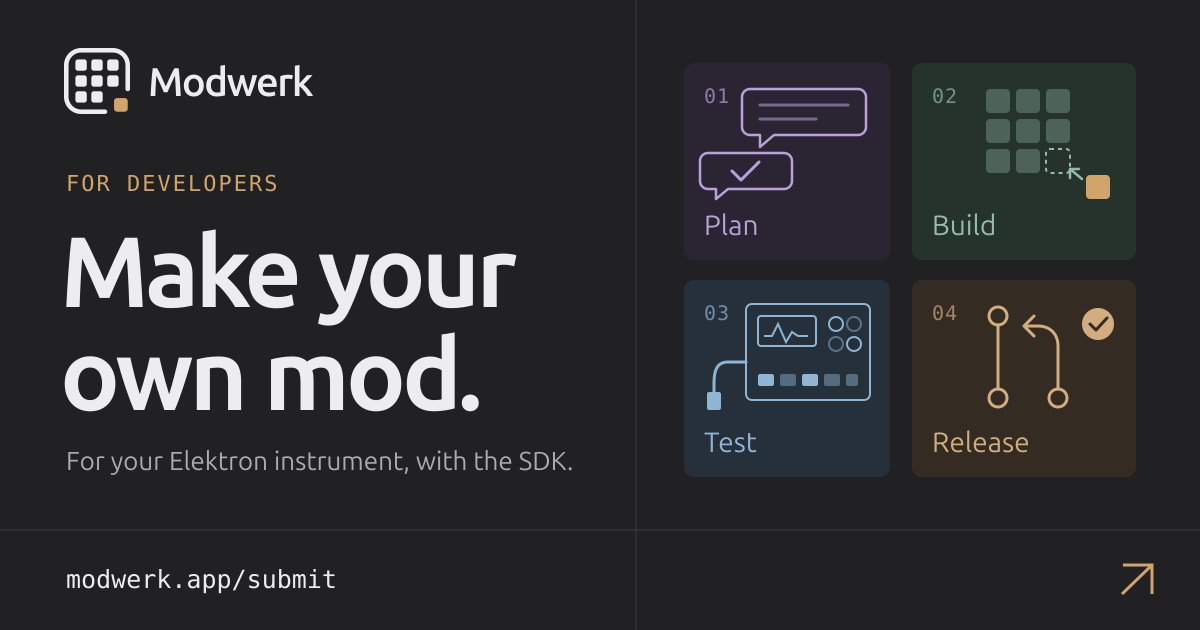
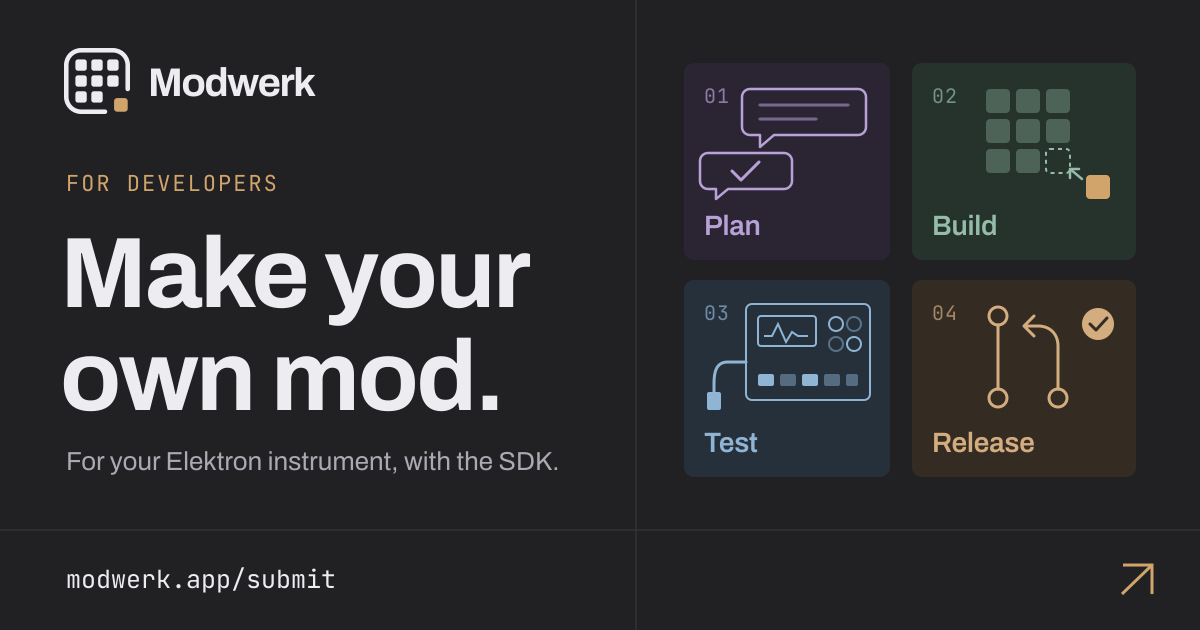
Set the Start developing card in Archivo and JetBrains Mono, like the homepage card

diff --git a/docs/SOCIAL-PREVIEW.md b/docs/SOCIAL-PREVIEW.md
@@ -27,8 +27,11 @@ as a chat with a check, a ninth tile sliding into the module grid, a generic
 instrument on a USB cable and a merged pull request. They are original
 explanatory drawings, not interface captures or a picture of any maker's hardware.
 The editable source is [social-preview/submit.svg](social-preview/submit.svg);
-re-export with `node scripts/render-page-preview.mjs submit`. The source asks for
-Helvetica Neue, then Ubuntu Sans, so an export on Linux differs from one on macOS.
+it is set in Archivo and JetBrains Mono like the homepage card. Download their
+OFL TTFs from [google/fonts](https://github.com/google/fonts) (`ofl/archivo`,
+`ofl/jetbrainsmono`) into a folder outside the repository and re-export with
+`node scripts/render-page-preview.mjs submit --fonts <folder>`; without the folder
+the system's fallback fonts show.
 Its image and alt text are `SUBMIT_PREVIEW_IMAGE` and `SUBMIT_PREVIEW_ALT` in
 `src/community/developer-guidance.ts`; bump the filename's version when the
 artwork changes.
